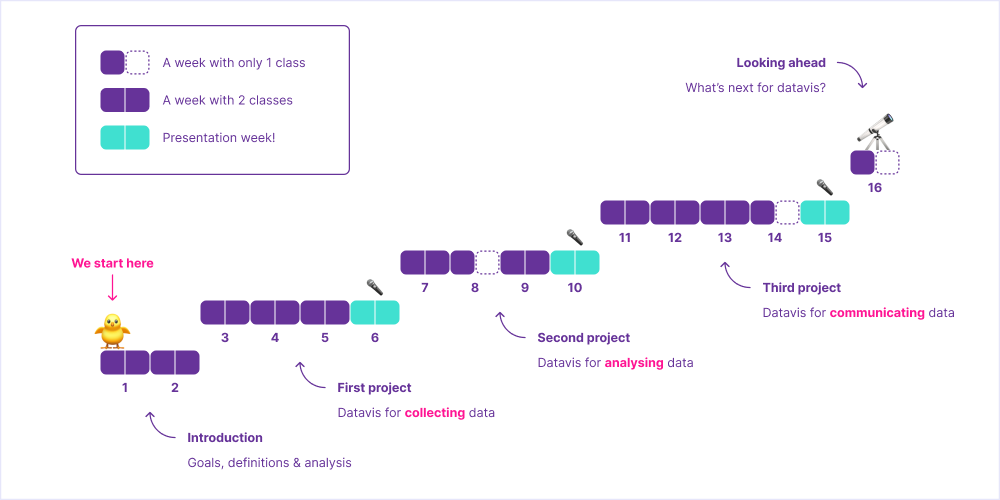
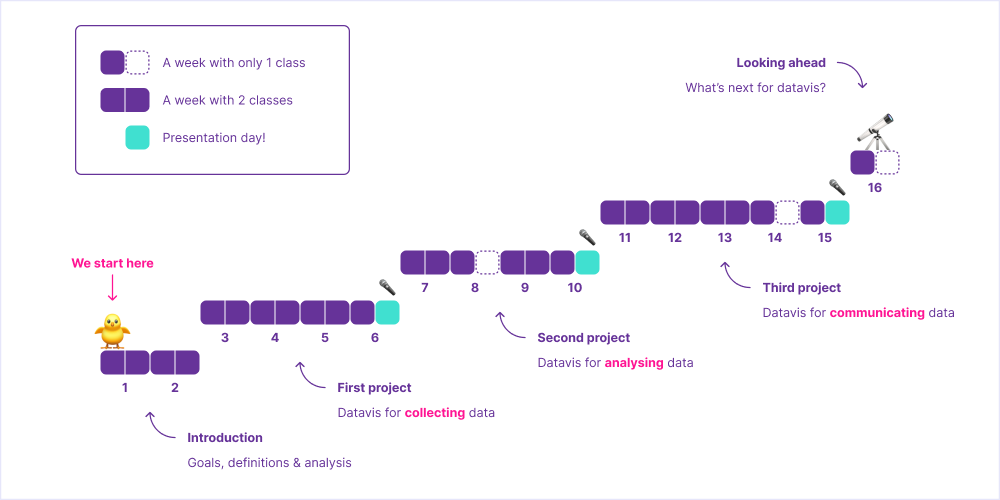
Replace presentation week by presentation day

diff --git a/2022/Fall/README.md b/2022/Fall/README.md
@@ -47,13 +47,13 @@ We will not learn everything at once. Instead, this 16-week course is split into
 
 After a couple of weeks of introduction, students begin working on projects. There are 3 individual projects (of increasing complexity) – and students will have around 3 weeks to create each one of them, from idea to coding.
 
-#### Presentation week
+#### Presentation day
 
-At the end of each project step, we have **presentation week** – imagine this to be you 3× during the semester:
+At the end of each project step, we have **presentation day** – imagine this to be you 3× during the semester:
 
-![Character with microphone](assets/presentation-week.png)
+![Character with microphone](assets/presentation-day.png)
 
-On presentation week, both classes of that week will be dedicated to presentation and discussion of projects. Half of the students present on Tuesday and half on Thursday. Each student has about 5 minutes to present their project and get feedback.
+On presentation day, the class will be dedicated to presentation and discussion of projects. Each student has about 10 minutes to present their project and get feedback.
 
 After the presentation, students are free to adjust the project (based on that feedback) and submit it for grading (prior to the beginning of the first class of the following week).
 
@@ -133,7 +133,7 @@ Due Sep 6, via Blackboard.
 ```
 
 #### First Project: Datavis for Collecting Data
-![Chart shows a step with 3 weeks of class plus 1 presentation week 🎤](assets/part-1.png)
+![Chart shows a step with 3.5 weeks of class plus 1 presentation day 🎤](assets/part-1.png)
 
 <table>
     <tr>
@@ -192,13 +192,13 @@ Due Sep 6, via Blackboard.
         <td rowspan=2>6</td>
         <td>Tue</td>
         <td>Sep 27</td>
-        <td>Sign up for a presentation slot (½ of the students)</td>
-        <td>Presenting your work & getting feedback</td>
+        <td></td>
+        <td></td>
     </tr>
     <tr>
         <td>Thu</td>
         <td>Sep 29</td>
-        <td>Sign up for a presentation slot (½ of the students)</td>
+        <td></td>
         <td>Presenting your work & getting feedback</td>
     </tr>
 </table>
@@ -218,7 +218,7 @@ Due Sep 13, via Blackboard.
 ```
 Present your project:
 
-• Up to 5 minutes
+• Up to 10 minutes
 
 Due Sep 27 or 29, during class.
 ```
@@ -235,7 +235,7 @@ Due Oct 4, via Blackboard.
 ```
 
 #### Second Project: Datavis for Analyzing Data
-![Chart shows a step with 3 weeks of class plus 1 presentation week 🎤](assets/part-2.png)
+![Chart shows a step with 3.5 weeks of class plus 1 presentation day 🎤](assets/part-2.png)
 
 <table>
     <tr>
@@ -292,13 +292,13 @@ Due Oct 4, via Blackboard.
         <td rowspan=2>10</td>
         <td>Tue</td>
         <td>Oct 25</td>
-        <td>Sign up for a presentation slot (½ of the students)</td>
-        <td>Presenting your work & getting feedback</td>
+        <td></td>
+        <td></td>
     </tr>
     <tr>
         <td>Thu</td>
         <td>Oct 27</td>
-        <td>Sign up for a presentation slot (½ of the students)</td>
+        <td></td>
         <td>Presenting your work & getting feedback</td>
     </tr>
 </table>
@@ -318,7 +318,7 @@ Due Oct 11, via Blackboard.
 ```
 Present your project:
 
-• Up to 5 minutes
+• Up to 10 minutes
 
 Due Oct 25 or 27, during class.
 ```
@@ -335,7 +335,7 @@ Due Nov 1, via Blackboard.
 ```
 
 #### Third Project: Datavis for Communicating Data
-![Chart shows a step with 4 weeks of class plus 1 presentation week 🎤](assets/part-3.png)
+![Chart shows a step with 4.5 weeks of class plus 1 presentation day 🎤](assets/part-3.png)
 
 <table>
     <tr>
@@ -406,13 +406,13 @@ Due Nov 1, via Blackboard.
         <td rowspan=2>15</td>
         <td>Tue</td>
         <td>Nov 29</td>
-        <td>Sign up for a presentation slot (½ of the students)</td>
-        <td>Presenting your work & getting feedback</td>
+        <td></td>
+        <td></td>
     </tr>
     <tr>
         <td>Thu</td>
         <td>Dec 1</td>
-        <td>Sign up for a presentation slot (½ of the students)</td>
+        <td></td>
         <td>Presenting your work & getting feedback</td>
     </tr>
 </table>
@@ -432,7 +432,7 @@ Due Nov 8, via Blackboard.
 ```
 Present your project:
 
-• Up to 5 minutes
+• Up to 10 minutes
 
 Due Nov 29 or Dec 1, during class.
 ```
